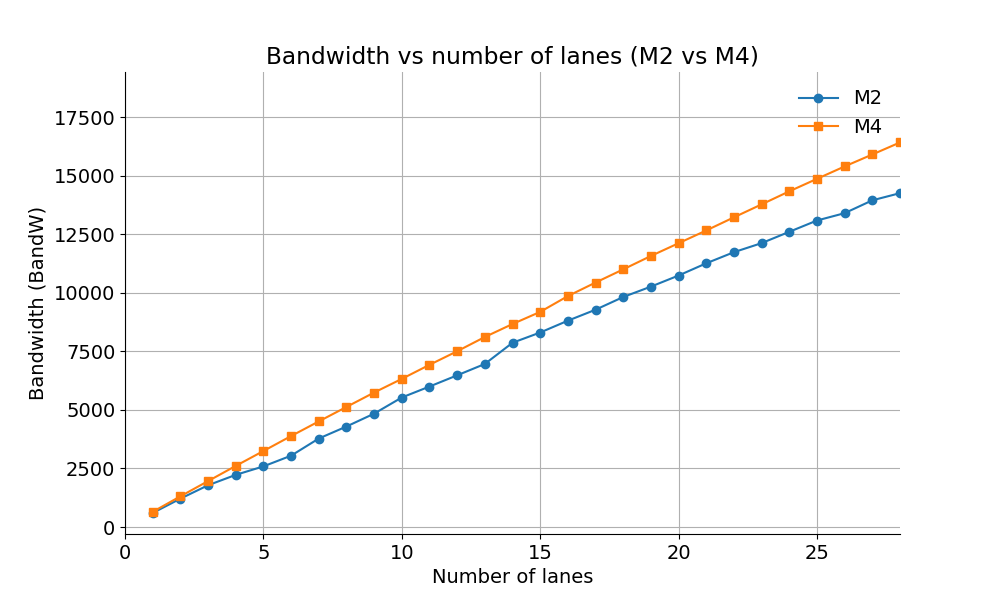
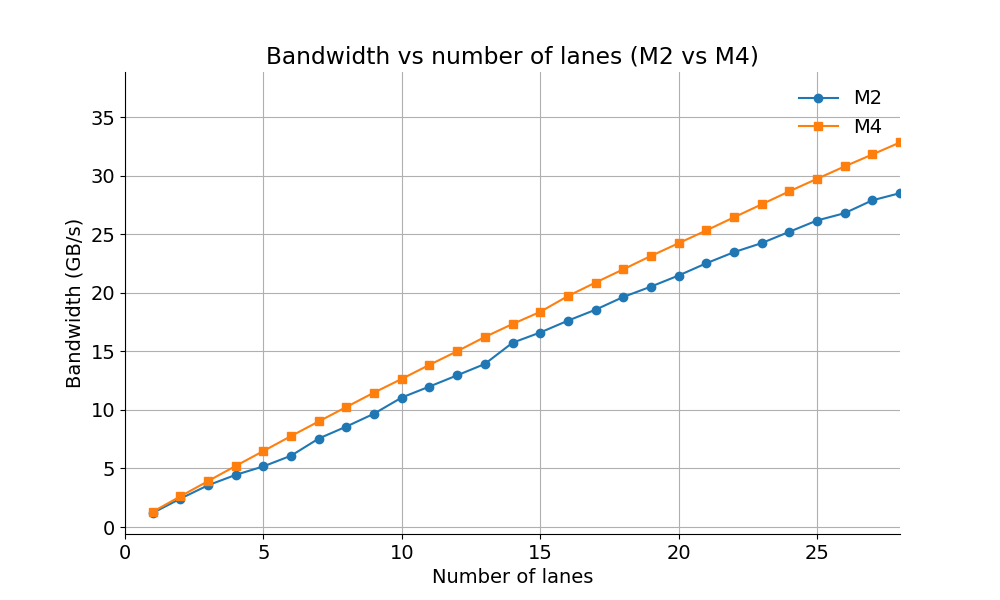
saving

diff --git a/2012/05/31/bench_alignment_unaligned.c b/2012/05/31/bench_alignment_unaligned.c
@@ -1,10 +1,10 @@
 /**
-* contributed by Laurent Gauthier.
-*/
+ * contributed by Laurent Gauthier.
+ */
 
+#include <inttypes.h>
 #include <stdio.h>
 #include <stdlib.h>
-#include <inttypes.h>
 #include <time.h>
 
 #define REPEAT_COUNT 100000
@@ -14,63 +14,69 @@ uint32_t data2[32768];
 uint32_t data3[32768];
 uint32_t data4[32768];
 
-uint32_t accumulate_non_aligned(uint8_t *data1, uint8_t *data2, uint8_t *data3, uint8_t *data4, uint16_t *indexes, uint32_t size) {
-	int i, j;
-	uint32_t result = 0;
-	for (j=0; j<REPEAT_COUNT; j++) {
-		for (i=0; i<size; i++) {
-			result += *((volatile uint32_t *)(data1+indexes[i]));
-			result += *((volatile uint32_t *)(data2+indexes[i]));
-			result += *((volatile uint32_t *)(data3+indexes[i]));
-			result += *((volatile uint32_t *)(data4+indexes[i]));
-		}
-	}
-	return result;
+uint32_t accumulate_non_aligned(uint8_t *data1, uint8_t *data2, uint8_t *data3,
+                                uint8_t *data4, uint16_t *indexes,
+                                uint32_t size) {
+  int i, j;
+  uint32_t result = 0;
+  for (j = 0; j < REPEAT_COUNT; j++) {
+    for (i = 0; i < size; i++) {
+      result += *((volatile uint32_t *)(data1 + indexes[i]));
+      result += *((volatile uint32_t *)(data2 + indexes[i]));
+      result += *((volatile uint32_t *)(data3 + indexes[i]));
+      result += *((volatile uint32_t *)(data4 + indexes[i]));
+    }
+  }
+  return result;
 }
-uint32_t accumulate_aligned(uint32_t *data1, uint32_t *data2, uint32_t *data3, uint32_t *data4, uint16_t *indexes, uint32_t size) {
-	int i, j;
-	uint32_t result = 0;
-	for (j=0; j<REPEAT_COUNT; j++) {
-		for (i=0; i<size; i++) {
-			result += *((volatile uint32_t *)(data1+indexes[i]));
-			result += *((volatile uint32_t *)(data2+indexes[i]));
-			result += *((volatile uint32_t *)(data3+indexes[i]));
-			result += *((volatile uint32_t *)(data4+indexes[i]));
-		}
-	}
-	return result;
+uint32_t accumulate_aligned(uint32_t *data1, uint32_t *data2, uint32_t *data3,
+                            uint32_t *data4, uint16_t *indexes, uint32_t size) {
+  int i, j;
+  uint32_t result = 0;
+  for (j = 0; j < REPEAT_COUNT; j++) {
+    for (i = 0; i < size; i++) {
+      result += *((volatile uint32_t *)(data1 + indexes[i]));
+      result += *((volatile uint32_t *)(data2 + indexes[i]));
+      result += *((volatile uint32_t *)(data3 + indexes[i]));
+      result += *((volatile uint32_t *)(data4 + indexes[i]));
+    }
+  }
+  return result;
 }
 
 int main(int argc, char **argv) {
-	int i;
-	uint32_t result = 0;
-	clock_t start, end;
-	/* Setup the arrays.  The seed for the random number has to be provided as a command line parameter. */
-	srand(1);
-	for (i=0;i<100000;i++) {
-	#ifdef TEST_ALIGNED
-		indexes[i] = rand() % 32768;
-	#else
-		if (i & 0x1) {
-		indexes[i] = (rand() % (32768/8))*8*4 + 30;
-		} else {
-		indexes[i] = (rand() % (32768/8))*8*4 + 28;
-		}
-	#endif
-	}
-	for (i=0;i<32768;i++) {
-		data1[i] = rand();
-		data2[i] = rand();
-		data3[i] = rand();
-		data4[i] = rand();
-	}
-	/* Run the test many times and measure time */
-	start = clock();
-	#ifdef TEST_ALIGNED
-	result += accumulate_aligned(data1, data2, data3, data4, indexes, 100000);
-	#else
-	result += accumulate_non_aligned((uint8_t *)data1, (uint8_t *)data2, (uint8_t *)data3, (uint8_t *)data4, indexes, 100000);
-	#endif
-	end = clock();
-	printf("result = %d, time = %d\n", result, ((end-start)/CLOCKS_PER_SEC));
+  int i;
+  uint32_t result = 0;
+  clock_t start, end;
+  /* Setup the arrays.  The seed for the random number has to be provided as a
+   * command line parameter. */
+  srand(1);
+  for (i = 0; i < 100000; i++) {
+#ifdef TEST_ALIGNED
+    indexes[i] = rand() % 32768;
+#else
+    if (i & 0x1) {
+      indexes[i] = (rand() % (32768 / 8)) * 8 * 4 + 30;
+    } else {
+      indexes[i] = (rand() % (32768 / 8)) * 8 * 4 + 28;
+    }
+#endif
+  }
+  for (i = 0; i < 32768; i++) {
+    data1[i] = rand();
+    data2[i] = rand();
+    data3[i] = rand();
+    data4[i] = rand();
+  }
+  /* Run the test many times and measure time */
+  start = clock();
+#ifdef TEST_ALIGNED
+  result += accumulate_aligned(data1, data2, data3, data4, indexes, 100000);
+#else
+  result += accumulate_non_aligned((uint8_t *)data1, (uint8_t *)data2,
+                                   (uint8_t *)data3, (uint8_t *)data4, indexes,
+                                   100000);
+#endif
+  end = clock();
+  printf("result = %d, time = %d\n", result, ((end - start) / CLOCKS_PER_SEC));
 }

diff --git a/2012/05/31/bench_alignment.c b/2012/05/31/bench_alignment.c
@@ -1,7 +1,7 @@
+#include <inttypes.h>
 #include <stdint.h>
 #include <stdio.h>
 #include <stdlib.h>
-#include <inttypes.h>
 #include <time.h>
 
 #define TEST_ALIGNED 0
@@ -12,63 +12,69 @@ uint32_t data2[32768];
 uint32_t data3[32768];
 uint32_t data4[32768];
 
-uint32_t accumulate_non_aligned(uint8_t *data1, uint8_t *data2, uint8_t *data3, uint8_t *data4, uint16_t *indexes, uint32_t size) {
-	int i, j;
-	uint32_t result = 0;
-	for (j=0; j<REPEAT_COUNT; j++) {
-		for (i=0; i<size; i++) {
-			result += *((volatile uint32_t *)(data1+indexes[i]));
-			result += *((volatile uint32_t *)(data2+indexes[i]));
-			result += *((volatile uint32_t *)(data3+indexes[i]));
-			result += *((volatile uint32_t *)(data4+indexes[i]));
-		}
-	}
-	return result;
+uint32_t accumulate_non_aligned(uint8_t *data1, uint8_t *data2, uint8_t *data3,
+                                uint8_t *data4, uint16_t *indexes,
+                                uint32_t size) {
+  int i, j;
+  uint32_t result = 0;
+  for (j = 0; j < REPEAT_COUNT; j++) {
+    for (i = 0; i < size; i++) {
+      result += *((volatile uint32_t *)(data1 + indexes[i]));
+      result += *((volatile uint32_t *)(data2 + indexes[i]));
+      result += *((volatile uint32_t *)(data3 + indexes[i]));
+      result += *((volatile uint32_t *)(data4 + indexes[i]));
+    }
+  }
+  return result;
 }
-uint32_t accumulate_aligned(uint32_t *data1, uint32_t *data2, uint32_t *data3, uint32_t *data4, uint16_t *indexes, uint32_t size) {
-	int i, j;
-	uint32_t result = 0;
-	for (j=0; j<REPEAT_COUNT; j++) {
-		for (i=0; i<size; i++) {
-			result += *((volatile uint32_t *)(data1+indexes[i]));
-			result += *((volatile uint32_t *)(data2+indexes[i]));
-			result += *((volatile uint32_t *)(data3+indexes[i]));
-			result += *((volatile uint32_t *)(data4+indexes[i]));
-		}
-	}
-	return result;
+uint32_t accumulate_aligned(uint32_t *data1, uint32_t *data2, uint32_t *data3,
+                            uint32_t *data4, uint16_t *indexes, uint32_t size) {
+  int i, j;
+  uint32_t result = 0;
+  for (j = 0; j < REPEAT_COUNT; j++) {
+    for (i = 0; i < size; i++) {
+      result += *((volatile uint32_t *)(data1 + indexes[i]));
+      result += *((volatile uint32_t *)(data2 + indexes[i]));
+      result += *((volatile uint32_t *)(data3 + indexes[i]));
+      result += *((volatile uint32_t *)(data4 + indexes[i]));
+    }
+  }
+  return result;
 }
 
 int main(int argc, char **argv) {
-	int i;
-	uint32_t result = 0;
-	clock_t start, end;
-	/* Setup the arrays.  The seed for the random number has to be provided as a command line parameter. */
-	srand(1);
-	for (i=0;i<100000;i++) {
-	#ifdef TEST_ALIGNED
-		indexes[i] = rand() % 32768;
-	#else
-		if (i & 0x1) {
-		indexes[i] = (rand() % (32768/8))*8*4 + 30;
-		} else {
-		indexes[i] = (rand() % (32768/8))*8*4 + 30;
-		}
-	#endif
-	}
-	for (i=0;i<32768;i++) {
-		data1[i] = rand();
-		data2[i] = rand();
-		data3[i] = rand();
-		data4[i] = rand();
-	}
-	/* Run the test many times and measure time */
-	start = clock();
-	#ifdef TEST_ALIGNED
-	result += accumulate_aligned(data1, data2, data3, data4, indexes, 100000);
-	#else
-	result += accumulate_non_aligned((uint8_t *)data1, (uint8_t *)data2, (uint8_t *)data3, (uint8_t *)data4, indexes, 100000);
-	#endif
-	end = clock();
-	printf("result = %d, time = %d\n", result, ((end-start)/CLOCKS_PER_SEC));
+  int i;
+  uint32_t result = 0;
+  clock_t start, end;
+  /* Setup the arrays.  The seed for the random number has to be provided as a
+   * command line parameter. */
+  srand(1);
+  for (i = 0; i < 100000; i++) {
+#ifdef TEST_ALIGNED
+    indexes[i] = rand() % 32768;
+#else
+    if (i & 0x1) {
+      indexes[i] = (rand() % (32768 / 8)) * 8 * 4 + 30;
+    } else {
+      indexes[i] = (rand() % (32768 / 8)) * 8 * 4 + 30;
+    }
+#endif
+  }
+  for (i = 0; i < 32768; i++) {
+    data1[i] = rand();
+    data2[i] = rand();
+    data3[i] = rand();
+    data4[i] = rand();
+  }
+  /* Run the test many times and measure time */
+  start = clock();
+#ifdef TEST_ALIGNED
+  result += accumulate_aligned(data1, data2, data3, data4, indexes, 100000);
+#else
+  result += accumulate_non_aligned((uint8_t *)data1, (uint8_t *)data2,
+                                   (uint8_t *)data3, (uint8_t *)data4, indexes,
+                                   100000);
+#endif
+  end = clock();
+  printf("result = %d, time = %d\n", result, ((end - start) / CLOCKS_PER_SEC));
 }

diff --git a/2025/07/09/plot.py b/2025/07/09/plot.py
@@ -7,12 +7,12 @@ plt.rcParams.update({'font.size': 14})
 m2_lanes = list(range(1, 41))
 m2_ns_hit = [102.1, 50.4, 34.3, 27.4, 23.6, 20.0, 16.2, 14.2, 12.6, 11.0, 10.2, 9.4, 8.8, 7.8, 7.3, 6.9, 6.6, 6.2, 5.9, 5.7, 5.4, 5.2, 5.0, 4.8, 4.7, 4.6, 4.4, 4.3, 4.4, 4.3, 4.3, 4.3, 4.1, 4.3, 4.0, 3.9, 3.9, 3.9, 3.8, 3.8]
 m2_bandwidth = [598, 1210, 1782, 2226, 2588, 3045, 3777, 4290, 4840, 5529, 5997, 6476, 6961, 7866, 8304, 8809, 9277, 9820, 10263, 10737, 11259, 11734, 12120, 12604, 13086, 13400, 13948, 14254, 13901, 14290, 14271, 14273, 15040, 14349, 15129, 15514, 15497, 15696, 16028, 15882]
-
+m2_bandwidth = [2*x/1000 for x in m2_bandwidth]  # Double the M2 bandwidth values (128-bit cache line)
 # Data for Apple M4
 m4_lanes = list(range(1, 41))
 m4_ns_hit = [94.3, 46.6, 31.1, 23.4, 18.8, 15.7, 13.5, 11.9, 10.6, 9.7, 8.8, 8.1, 7.5, 7.0, 6.6, 6.2, 5.8, 5.5, 5.3, 5.0, 4.8, 4.6, 4.4, 4.3, 4.1, 4.0, 3.8, 3.7, 4.0, 4.0, 4.1, 3.8, 3.7, 3.8, 3.6, 3.5, 3.5, 3.4, 3.3, 3.3]
 m4_bandwidth = [647, 1309, 1960, 2608, 3244, 3883, 4508, 5126, 5741, 6324, 6924, 7504, 8112, 8666, 9185, 9859, 10437, 11000, 11572, 12116, 12661, 13222, 13775, 14332, 14865, 15395, 15905, 16419, 15236, 15207, 14847, 15888, 16467, 16259, 16856, 17507, 17456, 17780, 18530, 18469]
-
+m4_bandwidth = [2*x/1000 for x in m4_bandwidth]  # Double the M4 bandwidth values (128-bit cache line)
 # Plot 1: Number of lanes vs Delay (ns/hit) with logarithmic y-axis
 fig, ax = plt.subplots(figsize=(10, 6))
 ax.plot(m2_lanes, m2_ns_hit, label='M2', marker='o')
@@ -34,7 +34,7 @@ fig, ax = plt.subplots(figsize=(10, 6))
 ax.plot(m2_lanes, m2_bandwidth, label='M2', marker='o')
 ax.plot(m4_lanes, m4_bandwidth, label='M4', marker='s')
 ax.set_xlabel('Number of lanes')
-ax.set_ylabel('Bandwidth (BandW)')
+ax.set_ylabel('Bandwidth (GB/s)')
 ax.set_title('Bandwidth vs number of lanes (M2 vs M4)')
 ax.set_xlim(left=0, right=28)
 ax.legend(frameon=False)

diff --git a/2012/05/31/lock.cpp b/2012/05/31/lock.cpp
@@ -74,11 +74,6 @@ template <class T> void runtest() {
 
 int main() {
   runtest<int>();
-  /*cout << sizeof(int) << endl;
-  runtest<long>();
-  cout << sizeof(long) << endl;
-  runtest<long long>();
-  cout << sizeof(long long) << endl;*/
   return 0;
 }
 
